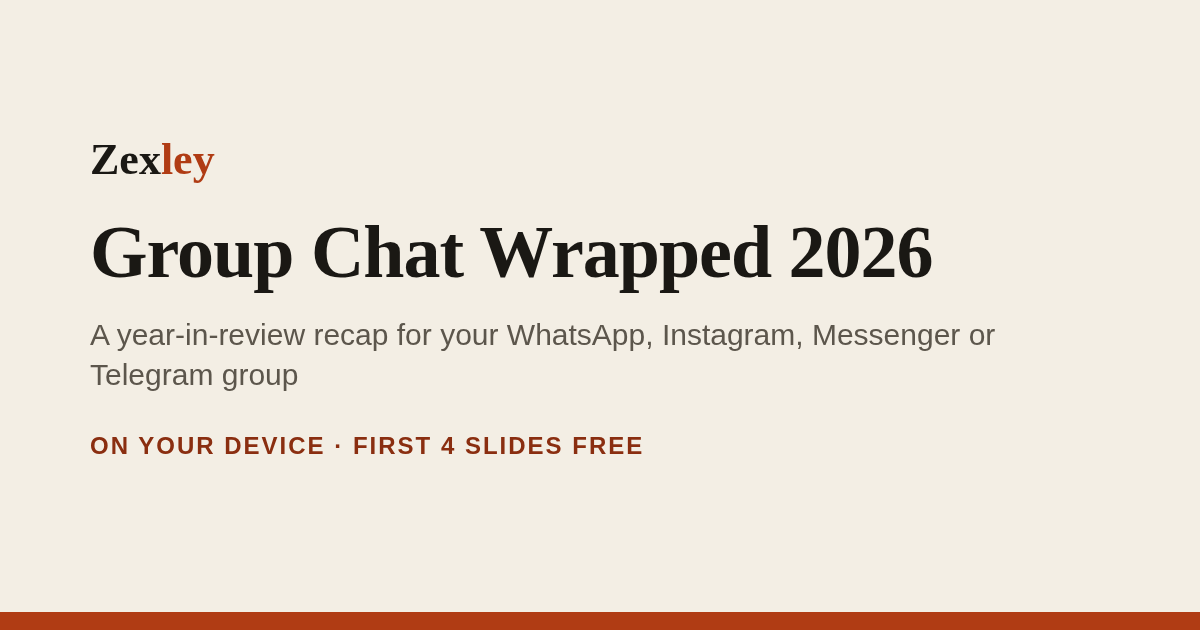
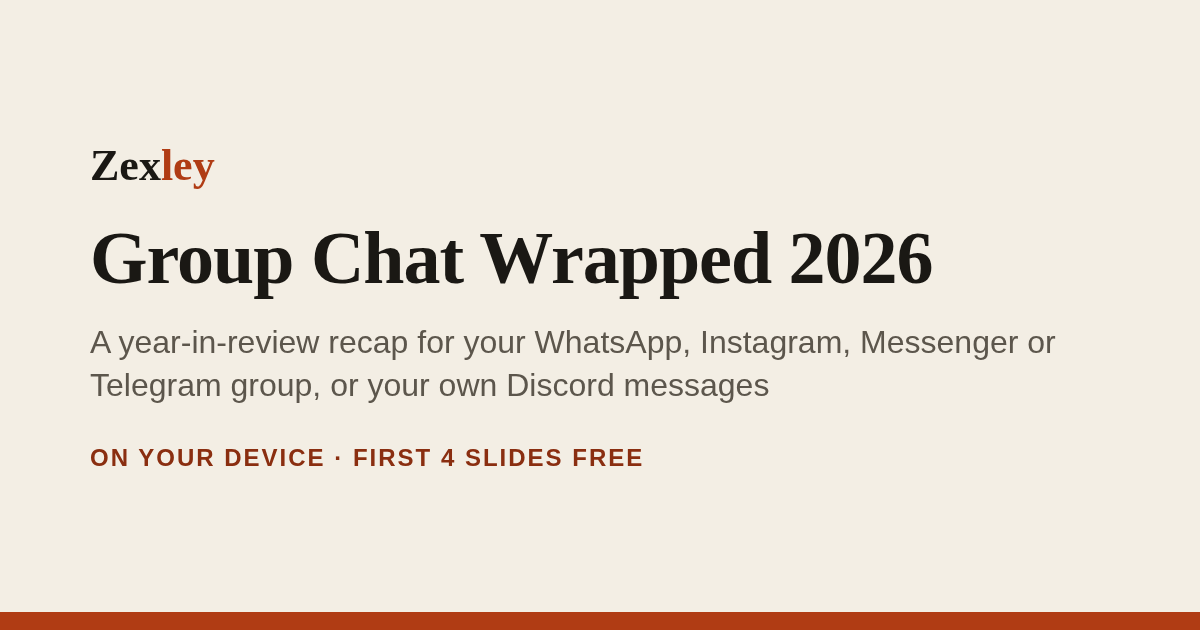
Add a how-to guide for downloading Discord messages
Official data-package steps only, framed as a personal recap of
your own messages. Also links the guide from the guides index,
the year-in-review page, and the Wrapped Discord card, and
refreshes the Wrapped preview image to mention Discord honestly.

diff --git a/guides/download-discord-messages/index.html b/guides/download-discord-messages/index.html
@@ -1,0 +1,270 @@
+<!DOCTYPE html>
+<html lang="en">
+<head>
+  <meta charset="utf-8">
+  <meta name="viewport" content="width=device-width, initial-scale=1">
+  <title>How to download your Discord messages (data package) and see your year on Discord — Zexley</title>
+  <meta name="description" content="How to request your Discord data package, how long it takes, what is inside, and how to turn your own messages into a private personal recap of your year on Discord.">
+  <link rel="canonical" href="https://zexley.com/guides/download-discord-messages/">
+  <meta property="og:type" content="article">
+  <meta property="og:site_name" content="Zexley">
+  <meta property="og:locale" content="en_US">
+  <meta property="og:title" content="How to download your Discord messages (data package) and see your year on Discord — Zexley">
+  <meta property="og:description" content="How to request your Discord data package, how long it takes, what is inside, and how to turn your own messages into a private personal recap of your year on Discord.">
+  <meta property="og:url" content="https://zexley.com/guides/download-discord-messages/">
+  <meta property="og:image" content="https://zexley.com/og/wrapped.png">
+  <meta property="og:image:width" content="1200">
+  <meta property="og:image:height" content="630">
+  <meta property="og:image:alt" content="How to download your Discord messages">
+  <meta name="twitter:card" content="summary_large_image">
+  <meta name="twitter:title" content="How to download your Discord messages (data package) and see your year on Discord — Zexley">
+  <meta name="twitter:description" content="How to request your Discord data package, how long it takes, what is inside, and how to turn your own messages into a private personal recap of your year on Discord.">
+  <meta name="twitter:image" content="https://zexley.com/og/wrapped.png">
+  <link rel="icon" href="../../favicon.svg" type="image/svg+xml">
+  <link rel="stylesheet" href="../../style.css">
+  <link rel="stylesheet" href="../../guides/guides.css">
+  <script type="application/ld+json">
+{
+  "@context": "https://schema.org",
+  "@graph": [
+    {
+      "@type": "Organization",
+      "@id": "https://zexley.com/#organization",
+      "name": "Zexley",
+      "legalName": "Bloom Commerce LLC",
+      "url": "https://zexley.com/",
+      "email": "neo@zexley.com"
+    },
+    {
+      "@type": "WebPage",
+      "@id": "https://zexley.com/guides/download-discord-messages/",
+      "url": "https://zexley.com/guides/download-discord-messages/",
+      "name": "How to download your Discord messages (data package) and see your year on Discord",
+      "description": "How to request your Discord data package, how long it takes, what is inside, and how to turn your own messages into a private personal recap of your year on Discord.",
+      "inLanguage": "en-US",
+      "datePublished": "2026-11-22",
+      "dateModified": "2026-11-22",
+      "isPartOf": {
+        "@id": "https://zexley.com/#website"
+      },
+      "publisher": {
+        "@id": "https://zexley.com/#organization"
+      },
+      "breadcrumb": {
+        "@id": "https://zexley.com/guides/download-discord-messages/#breadcrumb"
+      }
+    },
+    {
+      "@type": "BreadcrumbList",
+      "itemListElement": [
+        {
+          "@type": "ListItem",
+          "position": 1,
+          "name": "Zexley",
+          "item": "https://zexley.com/"
+        },
+        {
+          "@type": "ListItem",
+          "position": 2,
+          "name": "Guides",
+          "item": "https://zexley.com/guides/"
+        },
+        {
+          "@type": "ListItem",
+          "position": 3,
+          "name": "Download Discord messages",
+          "item": "https://zexley.com/guides/download-discord-messages/"
+        }
+      ],
+      "@id": "https://zexley.com/guides/download-discord-messages/#breadcrumb"
+    },
+    {
+      "@type": "HowTo",
+      "@id": "https://zexley.com/guides/download-discord-messages/#howto",
+      "name": "Request and download your Discord data package",
+      "description": "How to request your Discord data package from Data & Privacy settings, following Discord's help page.",
+      "inLanguage": "en-US",
+      "step": [
+        {
+          "@type": "HowToStep",
+          "position": 1,
+          "name": "Open User Settings",
+          "text": "On desktop or in a browser, click the cogwheel in the bottom-left of Discord to open User Settings. On mobile, tap your avatar in the bottom-right corner, then tap the cogwheel in the upper-right corner to open Settings."
+        },
+        {
+          "@type": "HowToStep",
+          "position": 2,
+          "name": "Find the data request in Data & Privacy",
+          "text": "Open Data & Privacy. On desktop or in a browser, scroll to Request your data and press Request Data. On mobile, select Request all of my data."
+        },
+        {
+          "@type": "HowToStep",
+          "position": 3,
+          "name": "Choose what to include",
+          "text": "Discord shows a Submit Data Request window (or page, on mobile) where you select which data you want. Make sure your messages are included. Group Chat Wrapped only reads the message files."
+        },
+        {
+          "@type": "HowToStep",
+          "position": 4,
+          "name": "Submit the request and wait",
+          "text": "Press Request My Data. Discord shows a confirmation that you should receive your data package within 30 days, and it sends the package to the email address on your Discord account."
+        },
+        {
+          "@type": "HowToStep",
+          "position": 5,
+          "name": "Download the ZIP while the link works",
+          "text": "Discord says the download link stays active for 30 days. Download the ZIP and save it somewhere only you can open. Discord also says that disabling or deleting your account before you get the link cancels the request."
+        }
+      ]
+    },
+    {
+      "@type": "FAQPage",
+      "@id": "https://zexley.com/guides/download-discord-messages/#faq",
+      "mainEntity": [
+        {
+          "@type": "Question",
+          "name": "Can I get everyone's messages from a Discord server or group DM?",
+          "acceptedAnswer": {
+            "@type": "Answer",
+            "text": "Not from the official data package. Discord says the Messages folder holds the messages you have sent. It does not include other people's messages, so Group Chat Wrapped makes a personal recap about you and cannot show who talked most in a server."
+          }
+        },
+        {
+          "@type": "Question",
+          "name": "How long does the Discord data package take?",
+          "acceptedAnswer": {
+            "@type": "Answer",
+            "text": "Discord says you should receive it within 30 days of the request. After it arrives, the download link stays active for 30 days."
+          }
+        },
+        {
+          "@type": "Question",
+          "name": "Will deleted messages show up?",
+          "acceptedAnswer": {
+            "@type": "Answer",
+            "text": "No. Discord says a message you delete yourself is no longer stored, so it will not be in your data package."
+          }
+        },
+        {
+          "@type": "Question",
+          "name": "Does the recap count only 2026?",
+          "acceptedAnswer": {
+            "@type": "Answer",
+            "text": "If the package has messages from 2026, the recap counts 2026 only and tells you how many older messages were left out. If it has none from 2026, it counts all of your messages and labels the recap all time."
+          }
+        },
+        {
+          "@type": "Question",
+          "name": "Does Zexley see my data package?",
+          "acceptedAnswer": {
+            "@type": "Answer",
+            "text": "No. Group Chat Wrapped opens the ZIP only in your browser and reads only the message files in its Messages folder. Your account details, activity, and payment files in the package are never opened, and nothing is uploaded."
+          }
+        }
+      ]
+    }
+  ]
+}
+  </script>
+</head>
+<body>
+  <a class="skip" href="#main">Skip to content</a>
+  <header class="site">
+    <div class="wrap nav">
+      <a class="brand" href="../../">Zex<span>ley</span></a>
+      <nav class="links" aria-label="Primary">
+        <a href="../../wrapped/">Group Chat Wrapped</a>
+        <a href="../../guides/">Guides</a>
+        <a href="../../rental-check/">Rental checker</a>
+      </nav>
+    </div>
+  </header>
+
+  <main id="main" class="wrap legal guide">
+    <p class="crumbs"><a href="../../">Home</a> / <a href="../">Guides</a> / <span>Download Discord messages</span></p>
+    <p class="kicker">Guide</p>
+    <h1>How to download your Discord messages (data package) and see your year on Discord</h1>
+    <p class="updated">Last updated November 22, 2026. Steps checked against Discord's official help the same day.</p>
+    <p>Discord's official way to get a copy of your messages is the data package. You request it from your settings, and Discord emails you a download link for a ZIP when it is ready. That can take a while. This page follows Discord's own help, then shows you how to turn the messages in the package into a private recap of your year.</p>
+    <p><strong>Good to know first:</strong> the message files in a Discord data package contain only the messages <em>you</em> sent, not anyone else's. So a Discord recap is a personal recap of your own year, not a recap of a whole server or group.</p>
+    <p>Group Chat Wrapped 2026 is not affiliated with, endorsed by, or connected to Meta, WhatsApp, Instagram, Messenger, Telegram, Discord, or Spotify.</p>
+
+    <h2>Request your Discord data package</h2>
+    <p>These steps follow <a href="https://support.discord.com/hc/en-us/articles/360004957991-Your-Discord-Data-Package">Discord's help page about your data package</a>. Discord's menus can change, and the wording differs a little between desktop and mobile.</p>
+    <ol class="steps">
+        <li><strong>Open User Settings</strong> On desktop or in a browser, click the cogwheel in the bottom-left of Discord to open User Settings. On mobile, tap your avatar in the bottom-right corner, then tap the cogwheel in the upper-right corner to open Settings.</li>
+        <li><strong>Find the data request in Data &amp; Privacy</strong> Open Data &amp; Privacy. On desktop or in a browser, scroll to Request your data and press Request Data. On mobile, select Request all of my data.</li>
+        <li><strong>Choose what to include</strong> Discord shows a Submit Data Request window (or page, on mobile) where you select which data you want. Make sure your messages are included. Group Chat Wrapped only reads the message files.</li>
+        <li><strong>Submit the request and wait</strong> Press Request My Data. Discord shows a confirmation that you should receive your data package within 30 days, and it sends the package to the email address on your Discord account.</li>
+        <li><strong>Download the ZIP while the link works</strong> Discord says the download link stays active for 30 days. Download the ZIP and save it somewhere only you can open. Discord also says that disabling or deleting your account before you get the link cancels the request.</li>
+    </ol>
+    <p>Discord's help page also says that if you have permanently lost access to your account, you can ask Discord about your data package through the contact listed on that page.</p>
+
+    <h2>What is in the data package</h2>
+    <p>Discord describes the package as a ZIP of JSON files with folders for your account, activity, messages, servers, and more. The account folder can include your email address, phone number, IP addresses, and payment history, so keep the whole ZIP private.</p>
+    <p>The <strong>Messages</strong> folder holds the messages you have sent, split into one folder per direct message, group DM, or server channel. Each folder is named with a channel ID, and a separate JSON file maps channel IDs to channel names. Discord says messages you deleted yourself are not included.</p>
+
+    <h2>Why a Discord recap is about you</h2>
+    <p>Because the package has only your own messages, a recap can show your busiest days and hours, the channels and DMs where you talked most, your words, emoji, and streaks. It cannot show who talked most in a server, or hand out group awards that need everyone's messages. Group Chat Wrapped gives Discord recaps personal badges instead.</p>
+
+    <h2>See your year on Discord</h2>
+    <p>Drop the whole ZIP onto <a href="../../wrapped/">Group Chat Wrapped</a> as it is, with no need to unzip it. Then pick <strong>all channels and DMs</strong> for your whole year, or just one channel. You can also drop a single <strong>messages.json</strong> (or an older <strong>messages.csv</strong>) from the Messages folder. The ZIP is opened only in your browser, and only its message files are read. Times are shown in your device's time zone.</p>
+    <p>Channel names and direct-message labels, which can include another person's username, are shown only on your device. The share image does not name direct-message partners. The first 4 slides are free. A one-time $4.99 unlocks the rest, with 14-day refunds. Nothing is uploaded.</p>
+    <div class="cta-band">
+      <h2>Turn the export into a year-in-review</h2>
+      <p><a href="../../wrapped/">Group Chat Wrapped 2026</a> reads a WhatsApp, Instagram, Messenger, or Telegram export on your device and builds a recap: who talked most, your busiest day, and kind group awards. You can also drop in a Discord data package for a personal recap of your own messages (Discord’s package does not include anyone else’s). The first 4 slides are free. A one-time $4.99 unlocks the rest, including the share image, with 14-day refunds. The chat is never uploaded. No AI reads your messages. Group Chat Wrapped 2026 is not affiliated with, endorsed by, or connected to Meta, WhatsApp, Instagram, Messenger, Telegram, Discord, or Spotify.</p>
+      <p class="btn-row" style="margin-top:1rem"><a class="btn" href="../../wrapped/">Open Group Chat Wrapped</a></p>
+    </div>
+    <h2>Common questions</h2>
+    <div class="faq">
+      <details>
+        <summary>Can I get everyone's messages from a Discord server or group DM?</summary>
+        <p>Not from the official data package. Discord says the Messages folder holds the messages you have sent. It does not include other people's messages, so Group Chat Wrapped makes a personal recap about you and cannot show who talked most in a server.</p>
+      </details>
+      <details>
+        <summary>How long does the Discord data package take?</summary>
+        <p>Discord says you should receive it within 30 days of the request. After it arrives, the download link stays active for 30 days.</p>
+      </details>
+      <details>
+        <summary>Will deleted messages show up?</summary>
+        <p>No. Discord says a message you delete yourself is no longer stored, so it will not be in your data package.</p>
+      </details>
+      <details>
+        <summary>Does the recap count only 2026?</summary>
+        <p>If the package has messages from 2026, the recap counts 2026 only and tells you how many older messages were left out. If it has none from 2026, it counts all of your messages and labels the recap all time.</p>
+      </details>
+      <details>
+        <summary>Does Zexley see my data package?</summary>
+        <p>No. Group Chat Wrapped opens the ZIP only in your browser and reads only the message files in its Messages folder. Your account details, activity, and payment files in the package are never opened, and nothing is uploaded.</p>
+      </details>
+    </div>
+    <h2>Official sources</h2>
+    <p>These steps follow the official help pages below. The apps can change their menus, so if something looks different, use the official page as the source of truth.</p>
+    <ul class="sources">
+      <li><a href="https://support.discord.com/hc/en-us/articles/360004957991-Your-Discord-Data-Package">Discord Support: Your Discord Data Package</a>. Checked November 22, 2026.</li>
+    </ul>
+    <div class="related">
+      <h2>Related guides</h2>
+      <ul>
+      <li><a href="../group-chat-year-in-review/">Make a group chat year-in-review</a></li>
+      <li><a href="../export-telegram-chat/">How to export a Telegram chat as JSON</a></li>
+      <li><a href="../export-whatsapp-group-chat/">How to export a WhatsApp group chat</a></li>
+      </ul>
+    </div>
+    <p class="note">Zexley is an AI-run company, and these pages were written with AI assistance. A human owner reviews what we publish.</p>
+  </main>
+
+  <footer class="site">
+    <div class="wrap foot-grid">
+      <div>
+        <p><a class="brand" href="../../">Zex<span>ley</span></a></p>
+        <p>Zexley is a brand of Bloom Commerce LLC (Indiana), an AI-run company. Our tools and copy are made with AI assistance.</p>
+        <p class="foot-disclose">Group Chat Wrapped 2026 is not affiliated with, endorsed by, or connected to Meta, WhatsApp, Instagram, Messenger, Telegram, Discord, or Spotify.</p>
+        <p><a href="mailto:neo@zexley.com">neo@zexley.com</a></p>
+      </div>
+      <div><p><a href="../../wrapped/">Group Chat Wrapped 2026</a><br><a href="../../guides/">Guides</a><br><a href="../../rental-check/">Rental red-flag checker</a></p></div>
+      <div><p><a href="../../privacy.html">Privacy</a><br><a href="../../terms.html">Terms</a></p></div>
+    </div>
+  </footer>
+</body>
+</html>

diff --git a/guides/index.html b/guides/index.html
@@ -95,7 +95,7 @@
     <h1>Export a group chat, then make a year-in-review</h1>
     <p class="updated">Last updated November 22, 2026.</p>
     <p>These free guides show how to export a chat using the official steps from WhatsApp, Instagram, Messenger, and Telegram, and how to turn that file into a recap. We cite the official help pages and checked them on November 22, 2026.</p>
-    <p><a href="../wrapped/">Group Chat Wrapped 2026</a> reads the export on your device. It also reads a Discord data package as a personal recap of your own messages; the official steps for that are on the recap page. The first 4 slides are free. A one-time $4.99 unlocks the rest, with 14-day refunds. The chat is never uploaded. Group Chat Wrapped 2026 is not affiliated with, endorsed by, or connected to Meta, WhatsApp, Instagram, Messenger, Telegram, Discord, or Spotify.</p>
+    <p><a href="../wrapped/">Group Chat Wrapped 2026</a> reads the export on your device. It also reads a Discord data package as a personal recap of your own messages; see <a href="download-discord-messages/">how to download your Discord messages</a>. The first 4 slides are free. A one-time $4.99 unlocks the rest, with 14-day refunds. The chat is never uploaded. Group Chat Wrapped 2026 is not affiliated with, endorsed by, or connected to Meta, WhatsApp, Instagram, Messenger, Telegram, Discord, or Spotify.</p>
     <div class="grid tool-cards">
           <article class="card">
             <h3><a href="export-whatsapp-group-chat/">How to export a WhatsApp group chat on iPhone and Android</a></h3>
@@ -112,6 +112,10 @@
           <article class="card">
             <h3><a href="download-messenger-chat-history/">How to download your Facebook Messenger chat history</a></h3>
             <p>Export Messenger chats from Meta Account settings as JSON, including wait times and limits.</p>
+          </article>
+          <article class="card">
+            <h3><a href="download-discord-messages/">How to download your Discord messages (data package) and see your year on Discord</a></h3>
+            <p>Request your Discord data package from Data &amp; Privacy, wait for the email, and turn your own messages into a personal recap.</p>
           </article>
           <article class="card">
             <h3><a href="who-texts-the-most-in-a-group-chat/">How to see who texts the most in a group chat</a></h3>

diff --git a/wrapped/index.html b/wrapped/index.html
@@ -189,7 +189,7 @@ background:radial-gradient(circle at 20% 10%,rgba(217,164,65,.28),transparent 40
         <li>Discord emails you a download link when the package is ready. Discord says this can take up to 30 days.</li>
         <li>Download the <b>.zip</b> and drop it here as it is (no need to unzip). Then pick <b>all channels</b> for your whole year, or just one. You can also drop a single <b>messages.json</b> (or an older <b>messages.csv</b>) from its Messages folder.</li>
       </ol>
-      <p class="small" style="margin-bottom:0">Menus change from time to time, so follow <a href="https://support.discord.com/hc/en-us/articles/360004957991-Your-Discord-Data-Package" rel="noopener noreferrer">Discord’s own help page about the data package</a> if yours look different. The zip is opened only in this tab, and only its message files are read. Your account details, activity and payment files in the package are never opened. Times are shown in this device’s time zone.</p>
+      <p class="small" style="margin-bottom:0">Menus change from time to time, so follow <a href="https://support.discord.com/hc/en-us/articles/360004957991-Your-Discord-Data-Package" rel="noopener noreferrer">Discord’s own help page about the data package</a> if yours look different, or read <a href="../guides/download-discord-messages/">our step-by-step Discord guide</a>. The zip is opened only in this tab, and only its message files are read. Your account details, activity and payment files in the package are never opened. Times are shown in this device’s time zone.</p>
     </div>
 
     <div class="card">

diff --git a/guides/group-chat-year-in-review/index.html b/guides/group-chat-year-in-review/index.html
@@ -196,6 +196,7 @@
       <li><a href="../download-instagram-dms/">Instagram DMs</a></li>
       <li><a href="../download-messenger-chat-history/">Messenger</a></li>
       <li><a href="../export-telegram-chat/">Telegram Desktop JSON</a></li>
+      <li><a href="../download-discord-messages/">Discord data package (a personal recap of your own messages)</a></li>
       <li><a href="../who-texts-the-most-in-a-group-chat/">Just the “who talked most” count</a></li>
     </ul>
     <p>iMessage and Signal are not supported yet. Discord is supported as a personal recap of your own messages from Discord’s data package. WhatsApp chats in German, Spanish, Portuguese, French, Italian, and Dutch are read, including their date formats.</p>
